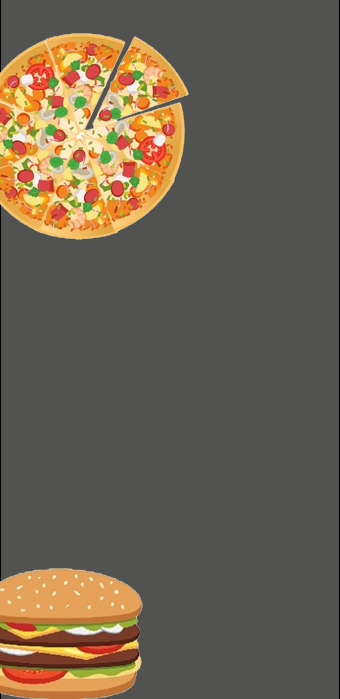
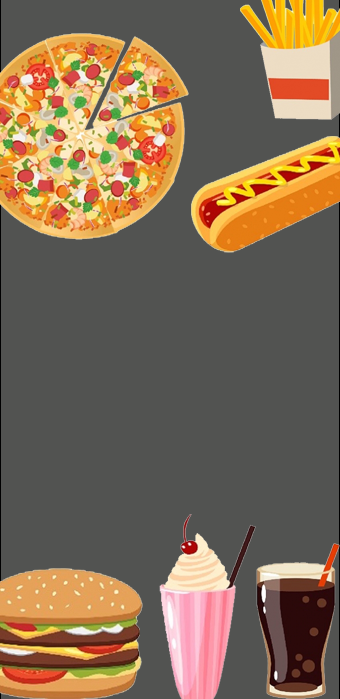
create signin page

Changed region(s): [[0.5588, 0.0, 1.0, 0.3605], [0.7353, 0.7811, 1.0, 1.0], [0.4706, 0.721, 0.7647, 1.0]]

diff --git a/lib/main.dart b/lib/main.dart
@@ -1,115 +1,23 @@
 import 'package:flutter/material.dart';
+import 'auth/signin.dart';
 
 void main() {
-  runApp(const MyApp());
+  runApp(MyApp());
 }
 
 class MyApp extends StatelessWidget {
-  const MyApp({Key? key}) : super(key: key);
-
+  
   // This widget is the root of your application.
   @override
   Widget build(BuildContext context) {
     return MaterialApp(
-      title: 'Flutter Demo',
+      title: 'Food App',
+      debugShowCheckedModeBanner: false,
       theme: ThemeData(
-        // This is the theme of your application.
-        //
-        // Try running your application with "flutter run". You'll see the
-        // application has a blue toolbar. Then, without quitting the app, try
-        // changing the primarySwatch below to Colors.green and then invoke
-        // "hot reload" (press "r" in the console where you ran "flutter run",
-        // or simply save your changes to "hot reload" in a Flutter IDE).
-        // Notice that the counter didn't reset back to zero; the application
-        // is not restarted.
-        primarySwatch: Colors.blue,
+      primarySwatch: Colors.blue,
       ),
-      home: const MyHomePage(title: 'Flutter Demo Home Page'),
+      home: SignIn(),
     );
   }
 }
 
-class MyHomePage extends StatefulWidget {
-  const MyHomePage({Key? key, required this.title}) : super(key: key);
-
-  // This widget is the home page of your application. It is stateful, meaning
-  // that it has a State object (defined below) that contains fields that affect
-  // how it looks.
-
-  // This class is the configuration for the state. It holds the values (in this
-  // case the title) provided by the parent (in this case the App widget) and
-  // used by the build method of the State. Fields in a Widget subclass are
-  // always marked "final".
-
-  final String title;
-
-  @override
-  State<MyHomePage> createState() => _MyHomePageState();
-}
-
-class _MyHomePageState extends State<MyHomePage> {
-  int _counter = 0;
-
-  void _incrementCounter() {
-    setState(() {
-      // This call to setState tells the Flutter framework that something has
-      // changed in this State, which causes it to rerun the build method below
-      // so that the display can reflect the updated values. If we changed
-      // _counter without calling setState(), then the build method would not be
-      // called again, and so nothing would appear to happen.
-      _counter++;
-    });
-  }
-
-  @override
-  Widget build(BuildContext context) {
-    // This method is rerun every time setState is called, for instance as done
-    // by the _incrementCounter method above.
-    //
-    // The Flutter framework has been optimized to make rerunning build methods
-    // fast, so that you can just rebuild anything that needs updating rather
-    // than having to individually change instances of widgets.
-    return Scaffold(
-      appBar: AppBar(
-        // Here we take the value from the MyHomePage object that was created by
-        // the App.build method, and use it to set our appbar title.
-        title: Text(widget.title),
-      ),
-      body: Center(
-        // Center is a layout widget. It takes a single child and positions it
-        // in the middle of the parent.
-        child: Column(
-          // Column is also a layout widget. It takes a list of children and
-          // arranges them vertically. By default, it sizes itself to fit its
-          // children horizontally, and tries to be as tall as its parent.
-          //
-          // Invoke "debug painting" (press "p" in the console, choose the
-          // "Toggle Debug Paint" action from the Flutter Inspector in Android
-          // Studio, or the "Toggle Debug Paint" command in Visual Studio Code)
-          // to see the wireframe for each widget.
-          //
-          // Column has various properties to control how it sizes itself and
-          // how it positions its children. Here we use mainAxisAlignment to
-          // center the children vertically; the main axis here is the vertical
-          // axis because Columns are vertical (the cross axis would be
-          // horizontal).
-          mainAxisAlignment: MainAxisAlignment.center,
-          children: <Widget>[
-            const Text(
-              'You have pushed the button this many times:',
-            ),
-            Text(
-              '$_counter',
-              style: Theme.of(context).textTheme.headline4,
-            ),
-          ],
-        ),
-      ),
-      floatingActionButton: FloatingActionButton(
-        onPressed: _incrementCounter,
-        tooltip: 'Increment',
-        child: const Icon(Icons.add),
-      ), // This trailing comma makes auto-formatting nicer for build methods.
-    );
-  }
-}

diff --git a/lib/auth/signin.dart b/lib/auth/signin.dart
@@ -1,0 +1,57 @@
+import 'package:flutter/material.dart';
+import 'package:flutter_signin_button/button_list.dart';
+import 'package:flutter_signin_button/button_view.dart';
+
+class SignIn extends StatelessWidget {
+  
+  @override
+  Widget build(BuildContext context) {
+    return Scaffold(
+      body: Container(
+        height: double.infinity,
+        width: double.infinity,
+        decoration: BoxDecoration(
+          image: DecorationImage(
+            fit: BoxFit.cover,
+            image: AssetImage('assets/background.png')
+          ),
+        ),
+        child: Column(
+          mainAxisAlignment: MainAxisAlignment.center,
+          children: [
+          Container(
+            height: 300,
+            width: double.infinity,
+            child: Column(
+              mainAxisAlignment: MainAxisAlignment.spaceEvenly,
+              children: [
+              Text('Sign in to continue'),
+              Text('FOODIE', style: TextStyle(fontSize: 70,color: Colors.white, fontFamily: 'Times New Roman', 
+              shadows: [BoxShadow(
+                blurRadius: 8,
+                color: Colors.amber.shade900,
+                offset: Offset(3,3),
+              ),],),),
+              Column(
+                children: [
+                  SignInButton(
+                    Buttons.Google, text: "Sign up with Google", onPressed: () {}),
+                ],
+              ),
+                 
+              Column(
+                children: [
+                  Text('By signin you are agreeing to our', style: TextStyle(color: Colors.grey[900]),),
+                  Text('Terms and Privacy Policy', style: TextStyle(color: Colors.grey[900]),),
+                ],
+              ),
+              
+            ],),
+          ),
+        ],),
+
+      ),
+      
+    );
+  }
+}

diff --git a/test/widget_test.dart b/test/widget_test.dart
@@ -13,7 +13,7 @@ import 'package:foodapp/main.dart';
 void main() {
   testWidgets('Counter increments smoke test', (WidgetTester tester) async {
     // Build our app and trigger a frame.
-    await tester.pumpWidget(const MyApp());
+    await tester.pumpWidget(MyApp());
 
     // Verify that our counter starts at 0.
     expect(find.text('0'), findsOneWidget);
